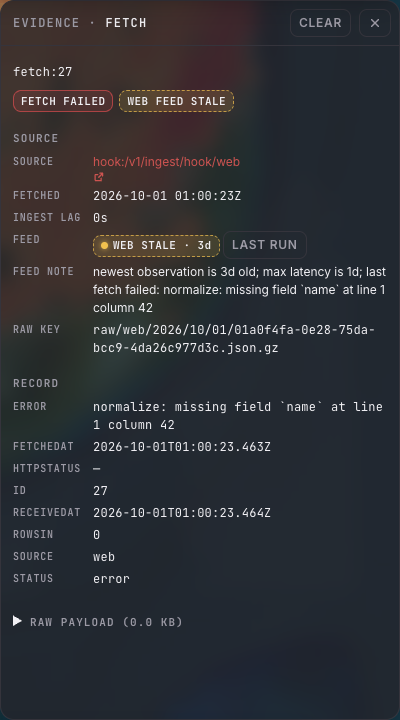
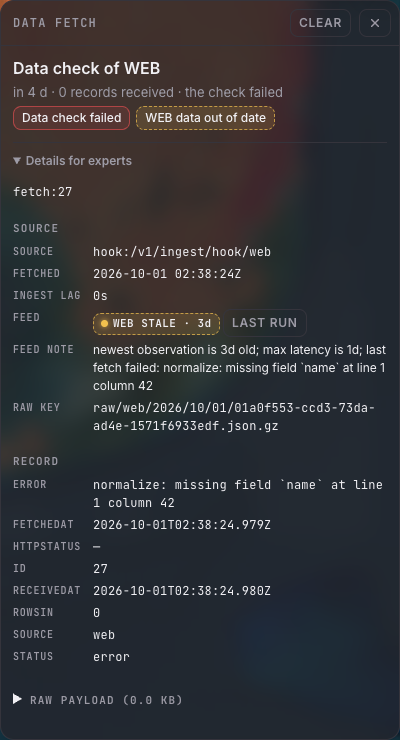
T27/T28 on the merged tree: re-run gates, e2e and perf
- e2e:quality follows T41 (About popover feed rows, plain-summary flags); stale-chip.png becomes stale-feed-row.png
- e2e:perf times the sightings layer (on by default since T41)
- agent: the 48 h globe window applies only to questions about what the globe shows; sightings results list
  lateRecords with cite markers
- docs/perf.md and the T27/T28 gates re-measured on the merged tree

diff --git a/apps/web/e2e/quality.ts b/apps/web/e2e/quality.ts
@@ -8,8 +8,9 @@
  *   E2E_SKIP_BUILD=1 …           reuse the last e2e build
  *
  * Cases and what must be on screen:
- * - stale:     a pushed sighting observed 3 days ago makes the `web` feed (max latency 1 d) stale: its chip is
- *              `data-state=stale`, and clicking it opens the fetch run with a FEED STALE badge and the note.
+ * - stale:     a pushed sighting observed 3 days ago makes the `web` feed (max latency 1 d) stale: its row in the
+ *              About popover's data sources (T41) is `data-state=stale` with the note, and its name opens the fetch
+ *              run, whose summary says "WEB data out of date".
  * - missing:   the fixture GOES scan's cloud and bad-DQF pixels are hatched on the LST layer (the layer's own
  *              gap count > 0); a cloud pixel's drawer says MISSING · CLOUD. A hook body that does not
  *              normalize is a failed fetch: its drawer says FETCH FAILED.
@@ -67,14 +68,18 @@ async function openPage(browser: Awaited<ReturnType<typeof chromium.launch>>, or
   return page;
 }
 
-/** Open an evidence id in the drawer through the share link, wait for its badges, and return the drawer's text. */
-async function drawer(page: Page, id: string, file: string, expect: RegExp[]): Promise<string> {
+/**
+ * Open an evidence id in the drawer through the share link, wait for it to load, screenshot it, and check its text.
+ * The plain summary and its quality flags are on top; `expert` also unfolds "Details for experts" for the shot.
+ */
+async function drawer(page: Page, id: string, file: string, expect: RegExp[], expert = false): Promise<string> {
   await page.evaluate((h) => {
     window.location.hash = h;
   }, `#e=${encodeURIComponent(id)}`);
   const el = page.locator("[data-testid=hud-drawer]");
   await page.waitForFunction((want) => document.querySelector("[data-testid=hud-drawer-id]")?.textContent === want, id, { timeout: 30_000 });
   await page.waitForFunction(() => !/Loading evidence/.test(document.querySelector("[data-testid=hud-drawer]")?.textContent ?? ""), undefined, { timeout: 30_000 });
+  if (expert) await page.evaluate(() => document.querySelector<HTMLDetailsElement>("[data-testid=drawer-expert]")?.setAttribute("open", ""));
   await page.waitForTimeout(400);
   await el.screenshot({ path: path.join(OUT, file) });
   shots += 1;
@@ -139,24 +144,31 @@ async function main() {
     const late = sightings.filter((s) => s.source === "nas" && lag(s) > DAY).sort((a, b) => Date.parse(b.observedAt) - Date.parse(a.observedAt))[0];
     if (!dup || !flip || !late) throw new Error(`fixtures: duplicate ${dup?.id}, flip ${flip?.id}, late ${late?.id}`);
 
-    // ---- stale: the web chip, then its fetch run in the drawer
+    // ---- stale: the web feed's row in the About popover (T41), then its fetch run in the drawer
     const page = await openPage(browser, stack.origin, `#v=1&c=25.70000,-80.60000,160000,0,-90&l=sightings,hotspots`);
-    await page.waitForSelector("[data-feed=web][data-state=stale]", { timeout: 60_000 });
-    const chip = page.locator("[data-feed=web]");
-    await chip.scrollIntoViewIfNeeded();
+    // FEEDS comes over the `feeds` subscription, published every 15 s.
+    await page.waitForFunction(() => ((window.__inversa!.state("FEEDS") as { source: string; state: string }[] | undefined) ?? []).some((f) => f.source === "web" && f.state === "stale"), undefined, { timeout: 60_000 });
+    await page.click("[data-testid=status-button]");
+    await page.click("[data-testid=data-sources] > summary");
+    const row = page.locator("[data-testid=status-popover] [data-feed=web][data-state=stale]");
+    await row.waitFor();
+    await row.scrollIntoViewIfNeeded();
     await page.waitForTimeout(300);
-    await page.locator("[data-testid=hud-topbar]").screenshot({ path: path.join(OUT, "stale-chip.png") });
+    await page.locator("[data-testid=status-popover]").screenshot({ path: path.join(OUT, "stale-feed-row.png") });
     shots += 1;
-    const chipTitle = (await chip.getAttribute("title")) ?? "";
-    if (!/stale/.test(chipTitle) || !/max latency is 1d/.test(chipTitle)) throw new Error(`web chip title: ${chipTitle}`);
-    await chip.click();
+    const rowText = `${(await row.getAttribute("title")) ?? ""} ${(await row.textContent()) ?? ""}`;
+    if (!/stale/.test(rowText) || !/max latency is 1d/.test(rowText)) throw new Error(`web feed row: ${rowText}`);
+    await row.locator("button").click();
     await page.waitForFunction(() => /^fetch:/.test(document.querySelector("[data-testid=hud-drawer-id]")?.textContent ?? ""), undefined, { timeout: 30_000 });
     await page.waitForFunction(() => Boolean(document.querySelector("[data-testid=hud-drawer-quality]")), undefined, { timeout: 30_000 });
+    await page.click("[data-testid=status-button]"); // close the popover so the drawer is in the clear
+    await page.evaluate(() => document.querySelector<HTMLDetailsElement>("[data-testid=drawer-expert]")?.setAttribute("open", ""));
+    await page.waitForTimeout(300);
     await page.locator("[data-testid=hud-drawer]").screenshot({ path: path.join(OUT, "stale-drawer.png") });
     shots += 1;
     const staleText = (await page.locator("[data-testid=hud-drawer]").textContent()) ?? "";
-    if (!/WEB FEED STALE/.test(staleText) || !/max latency is 1d/.test(staleText)) throw new Error(`stale drawer: ${staleText.slice(0, 800)}`);
-    results.push(`stale=web chip+drawer`);
+    if (!/WEB data out of date/.test(staleText) || !/max latency is 1d/.test(staleText)) throw new Error(`stale drawer: ${staleText.slice(0, 800)}`);
+    results.push(`stale=web feed row+drawer`);
 
     // ---- missing (1): cloud hatching on the LST layer at the frame after the scan, then a cloud pixel
     const frameAt = Math.floor(scanAt / 3_600_000) * 3_600_000 + 3_600_000;
@@ -181,21 +193,21 @@ async function main() {
     await globePage.screenshot({ path: path.join(OUT, "missing-cloud-globe.png") });
     shots += 1;
     log(`globe: LST frame ${gaps.layerFrame} (TIME ${gaps.time}), ${gaps.valid} valid cells`);
-    await drawer(globePage, readingId(cloud), "missing-cloud-drawer.png", [/MISSING · CLOUD/, /GOES/]);
-    await drawer(globePage, readingId(bad[0]!), "missing-bad-dqf-drawer.png", [/MISSING · BAD DQF/]);
+    await drawer(globePage, readingId(cloud), "missing-cloud-drawer.png", [/Cloud cover — no reading/, /GOES/]);
+    await drawer(globePage, readingId(bad[0]!), "missing-bad-dqf-drawer.png", [/Bad satellite data — no reading/]);
 
     // ---- missing (2): a push that does not normalize is a failed fetch
     const failed = await stack.hookRaw(JSON.stringify([{ Reading: { station: { ext_id: "broken" } } }]));
     if (failed.status !== 422) throw new Error(`broken hook body answered ${failed.status}: ${failed.text}`);
     const failedRun = (JSON.parse(failed.text) as { fetchRunId: number }).fetchRunId;
-    await drawer(globePage, `fetch:${failedRun}`, "missing-fetch-failed-drawer.png", [/FETCH FAILED/, /normalize/]);
+    await drawer(globePage, `fetch:${failedRun}`, "missing-fetch-failed-drawer.png", [/Data check failed/, /normalize/], true);
     results.push(`missing=cloud ${cloudy.length} bad_dqf ${bad.length} failed_fetch fetch:${failedRun}`);
 
     // ---- duplicate, conflict, late
-    await drawer(globePage, `sighting:${dup.id}`, "duplicate-drawer.png", [/DUPLICATE OF/, new RegExp(`sighting:${dup.canonicalId}`)]);
-    await drawer(globePage, `sighting:${dup.canonicalId}`, "duplicate-canonical-drawer.png", [/DUPLICATE/, new RegExp(`sighting:${dup.id}`)]);
+    await drawer(globePage, `sighting:${dup.id}`, "duplicate-drawer.png", [/Same animal as an earlier report/, /DUPLICATE OF/, new RegExp(`sighting:${dup.canonicalId}`)]);
+    await drawer(globePage, `sighting:${dup.canonicalId}`, "duplicate-canonical-drawer.png", [/Also reported once more elsewhere/, new RegExp(`sighting:${dup.id}`)]);
     results.push(`duplicate=sighting:${dup.id}->sighting:${dup.canonicalId}`);
-    await drawer(globePage, `sighting:${flip.id}`, "conflict-idflip-drawer.png", [/REVISION/, /CONFLICT/, /taxon:/]);
+    await drawer(globePage, `sighting:${flip.id}`, "conflict-idflip-drawer.png", [/Sources disagree/, /REVISION/, /taxon:/], true);
     // The SST pixel next to buoy 41122, 2.4 °C warmer.
     const pixelAt = Date.parse(buoy.observedAt) + 10 * 60_000;
     await stack.hook([
@@ -212,10 +224,10 @@ async function main() {
     ]);
     log(`seeded: SST pixel at ${iso(pixelAt)} next to ${buoy.station.name} ${buoy.value} °C`);
     const buoyId = readingId(buoy);
-    await drawer(globePage, buoyId, "conflict-sst-drawer.png", [/1 CONFLICT/, /t27-sst-pixel|:sst_c:/]);
+    await drawer(globePage, buoyId, "conflict-sst-drawer.png", [/Sources disagree/, /1 CONFLICT/, /:sst_c:/], true);
     results.push(`conflict=sighting:${flip.id} ${buoyId}`);
     const lateDays = Math.floor(lag(late) / DAY);
-    await drawer(globePage, `sighting:${late.id}`, "late-drawer.png", [/LATE · ARRIVED/, new RegExp(`Ingest lag${lateDays}d`)]);
+    await drawer(globePage, `sighting:${late.id}`, "late-drawer.png", [new RegExp(`Late report — reached us ${lateDays}d`), new RegExp(`Ingest lag${lateDays}d`)]);
     results.push(`late=sighting:${late.id} ${lateDays}d`);
 
     for (const line of results) console.log(`QUALITY ${line}`);

diff --git a/apps/web/server/agent/prompt.ts b/apps/web/server/agent/prompt.ts
@@ -27,7 +27,7 @@ export const AGENT_SYSTEM_PROMPT = `You are the Everglades Ops guide: a grounded
 - Conflicts: if a result lists "conflicts" or a sighting has idConflict, name the disagreement with both sides cited, then say which one you trust.
 - Prefer in-situ measured readings over satellite, and satellite over modelled. Prefer research-grade sightings over curated records, and both over needs_id or casual ones; say when a claim rests only on casual observations. Weigh grades in the answer rather than filtering them out of the query: fetch every grade unless the user asks for one, then give each record's grade.
 - Duplicates: a sighting with duplicateOf is the same animal reported again (iNaturalist, then GBIF, then NAS). Count distinct animals, not reports, and say how many were duplicates.
-- Late: a sighting with arrivedLate reached the feed long after the animal was seen (USGS NAS and GBIF publish curated records days to weeks later). It sits at its observation time, so counts for past days can still grow. Say which records arrived late (use the word "late") and by how much, cited.
+- Late: a sighting with arrivedLate reached the feed long after the animal was seen (USGS NAS and GBIF publish curated records days to weeks later). It sits at its observation time, so counts for past days can still grow. Whenever a sightings result has lateRecords, the answer says which records arrived late (use the word "late"), by how much, and pastes each one's cite marker, even when the question is about something else (counts, duplicates).
 - Missing: flags cloud, bad_dqf or missing mean no usable value. Report them as gaps, citing the flagged reading row itself as well as its feed.
 
 ## Hotspots
@@ -51,7 +51,7 @@ export function viewContext(view: AgentView | undefined, now: Date): string {
       `User's current view: bbox west ${west}, south ${south}, east ${east}, north ${north}; timeline at ${view.time}.`,
       `Visible layers: ${view.layers.length > 0 ? view.layers.join(", ") : "none"}.`,
       `Selected evidence: ${view.selection ?? "none"}.`,
-      `Sightings on the globe: those observed in the ${SIGHTING_WINDOW_HOURS} hours up to the timeline time. "How many sightings in view" means that window (from = timeline time minus ${SIGHTING_WINDOW_HOURS} h, to = timeline time) unless the user names another period.`,
+      `Sightings on the globe: those observed in the ${SIGHTING_WINDOW_HOURS} hours up to the timeline time. "How many sightings in view" means that window (from = timeline time minus ${SIGHTING_WINDOW_HOURS} h, to = timeline time) unless the user names another period. Use it only for questions about what the globe shows (in view, on the map); for any other sightings question (recent reports in a place, which to check, how many this week) leave from, to and hours out so the tool's own lookback applies.`,
     );
     if (view.species) {
       const shown = view.species.length > 0 ? view.species.join(", ") : "none";

diff --git a/apps/web/e2e/perf.ts b/apps/web/e2e/perf.ts
@@ -10,7 +10,7 @@
  *    TTFB, DOMContentLoaded and load from Navigation Timing; then the app's own marks from `window.__inversa`
  *    (client/debug.ts): `hydrated` (React has mounted the shell and its effects run: the HUD takes input),
  *    `globeFirstFrame` (Cesium's first rendered frame), `gridReady` (the db worker published the 30-day frame
- *    grid), and `dataDrawn` (the hotspot layer has painted a frame of that grid). Medians are printed.
+ *    grid), and `dataDrawn` (the sightings layer, on by default since T41, has drawn a frame of that grid). Medians are printed.
  * 2. First agent token, over AGENT_QUESTIONS live questions to the real agent (GPT-6 Luna on OpenRouter) through
  *    `POST /api/agent/stream` at the page origin, as the chat card sends them. Per question: the first NDJSON
  *    line (status), the first output the model streams (a reasoning or answer delta, or a tool call), and the
@@ -53,14 +53,14 @@ async function coldLoad(stack: Stack, browser: Browser): Promise<Cold> {
     await page.goto(`${stack.origin}/`, { waitUntil: "load", timeout: LOAD_TIMEOUT_MS });
     log("cold: page loaded, waiting for the first data frame");
     // Each resolves on the first animation frame at which its condition holds: the db worker's grid has frames,
-    // and the hotspot layer has painted one of them.
+    // and the sightings layer has drawn one of them.
     const at = (predicate: () => boolean | undefined) =>
       page
         .waitForFunction(`(${predicate.toString()})() ? performance.now() : false`, undefined, { timeout: LOAD_TIMEOUT_MS, polling: "raf" })
         .then(async (h) => (await h.jsonValue()) as number);
     const [gridReady, dataDrawn] = await Promise.all([
       at(() => (window.__inversa?.snapshot().grid?.frameCount ?? 0) > 0),
-      at(() => (window.__inversa?.globe()?.layers.find((l) => l.id === "hotspots")?.frame ?? -1) >= 0),
+      at(() => (window.__inversa?.globe()?.layers.find((l) => l.id === "sightings")?.frame ?? -1) >= 0),
     ]);
     await page.waitForFunction(() => {
       const m = window.__inversa?.marks();
@@ -95,7 +95,7 @@ async function ask(stack: Stack, question: string, i: number): Promise<AgentTimi
     body: JSON.stringify({
       sessionId: `perf-${Date.now()}-${i}`,
       question,
-      view: { bbox: HOMESTEAD, time: new Date().toISOString(), layers: ["sightings", "hotspots"], selection: null },
+      view: { bbox: HOMESTEAD, time: new Date().toISOString(), layers: ["sightings", "notes"], selection: null },
     }),
   });
   if (!res.ok || !res.body) throw new Error(`agent stream answered ${res.status}: ${await res.text()}`);

diff --git a/apps/web/server/agent/tools/capabilities.ts b/apps/web/server/agent/tools/capabilities.ts
@@ -342,6 +342,15 @@ const sightings = {
         duplicates: duplicates.length,
         conflicts: rows.filter((row) => row.conflict).length,
         late: rows.filter((row) => lateBy(row) !== null).length,
+        // Named up front, like feedSummary.mention: each late record with how late and its citation marker.
+        ...(rows.some((row) => lateBy(row) !== null)
+          ? {
+              lateRecords: rows
+                .filter((row) => lateBy(row) !== null)
+                .slice(0, MAX_MODEL_ROWS)
+                .map((row) => ({ source: row.source, arrived: `${lateBy(row)} after it was observed`, cite: `[e:sighting:${row.id}]` })),
+            }
+          : {}),
         byQuality,
         bySpecies,
         truncated: rows.length > shown.length,

diff --git a/packages/active-state/dist/threads/index.d.ts b/packages/active-state/dist/threads/index.d.ts
@@ -206,7 +206,7 @@ type GridShape = {
     /** score = u8 * hotspotScale. */
     hotspotScale: number;
 };
-/** i16 sentinel for a missing or flagged environment cell. */
+/** i16 sentinel for an environment cell with no reading (-32767, one above, marks a flagged pixel; see apps/web/shared/frames.ts). */
 declare const ENV_MISSING = -32768;
 /** "EVF2" as a little-endian u32. */
 declare const GRID_MAGIC = 843470405;

diff --git a/docs/perf.md b/docs/perf.md
@@ -1,18 +1,18 @@
 # Performance (PRD §13)
 
-Every PRD §13 target measured on the real stack, with how it was measured, at the T27/T28 commit. Machine: Apple Silicon Mac, headless Chromium (Playwright's `chromium-headless-shell`) with SwiftShader software WebGL, so every number that includes a globe frame is a software-rendering number; a laptop GPU renders the same frames faster. The stack is `apps/web/e2e/stack.ts`: Axum (release) over a temp data dir filled by `backfill --fixtures`, the production Next build (`next start`), the signal Worker under `wrangler dev --local`, and a Caddy-like front proxy, all on free ports.
+Every PRD §13 target measured on the real stack, with how it was measured, on the T27/T28 tree merged with main (T38, T40–T43); the poll run predates the merge, which touched no Rust. Machine: Apple Silicon Mac, headless Chromium (Playwright's `chromium-headless-shell`) with SwiftShader software WebGL, so every number that includes a globe frame is a software-rendering number; a laptop GPU renders the same frames faster. The stack is `apps/web/e2e/stack.ts`: Axum (release) over a temp data dir filled by `backfill --fixtures`, the production Next build (`next start`), the signal Worker under `wrangler dev --local`, and a Caddy-like front proxy, all on free ports.
 
 ## Targets
 
 | Target | Threshold (PRD §13) | Measured | Method | Result |
 |---|---|---|---|---|
-| Scrub frame change | < 16 ms, SAB, no network | median 7.72 ms, p95 13.98 ms, 0 requests, 96/96 frames verified | `bun run e2e:scrub`: drag the HUD timeline over 96 EVF2 frames in a SharedArrayBuffer grid; per step, input lands at a random point of the display frame and the span runs to the next `requestAnimationFrame` after the globe stand-in redrew that frame. Requests and sockets are counted while scrubbing. | PASS |
-| Cached query (client SQLite) | < 20 ms | 0.3 ms | `bun run e2e:dbworker`: a repeated `gqlRequest` answered from the db worker's SQLite cache, timed in the page (`DBWORKER cached=0.3 opfs=1 proxy=1`). | PASS |
+| Scrub frame change | < 16 ms, SAB, no network | median 9.05 ms, p95 14.13 ms, 0 requests, 96/96 frames verified | `bun run e2e:scrub`: drag the HUD timeline over 96 EVF2 frames in a SharedArrayBuffer grid; per step, input lands at a random point of the display frame and the span runs to the next `requestAnimationFrame` after the globe stand-in redrew that frame. Requests and sockets are counted while scrubbing. | PASS |
+| Cached query (client SQLite) | < 20 ms | 0.2 ms | `bun run e2e:dbworker`: a repeated `gqlRequest` answered from the db worker's SQLite cache, timed in the page (`DBWORKER cached=0.2 opfs=1 proxy=1`). | PASS |
 | Voice command to globe moving | < 800 ms after end of speech | not measured | Needs the live Grok voice session; `XAI_API_KEY` is not in Doppler `inversa/dev` (checked by presence only). | ABANDON: H6, no xAI key, so no voice round trip to time |
-| First agent token | < 2 s p50 | first token p50 1017 ms (1379, 943, 1017, 945, 1306) | `bun run e2e:perf`: 5 different questions to the live agent (GPT-6 Luna on OpenRouter) through `POST /api/agent/stream` at the page origin; time from request to the first output the model streams (a reasoning or answer delta, or its first tool call). The first NDJSON line (status) arrives at p50 7 ms. | PASS |
-| Optimistic local edit | same frame | 20/20 edits on screen before the next animation frame; DOM p50 0.6 ms | `bun run e2e:team`: A sends a chat line through the panel; a capture-phase submit listener arms a MutationObserver on A's own chat log and a `requestAnimationFrame` callback, which runs before the next paint; same frame when the line is already in the DOM then. | PASS |
-| Edit to RTC peer | < 150 ms p50 | p50 12 ms, p95 27 ms (20 edits) | `bun run e2e:team`: two browser contexts on one WebRTC data channel; A's submit time to B's MutationObserver seeing the line, same machine clock. | PASS |
-| Edit via WS fallback | < 1 s p50 | p50 82 ms, p95 87 ms (20 edits) | `bun run e2e:team` with peer traffic blocked on both sides (`__team.blockRtc`), so edits ride `applyOps` → Axum → the `ops` subscription. | PASS |
+| First agent token | < 2 s p50 | first token p50 1105 ms (1105, 1069, 1764, 939, 1201); first answer text p50 5.0 s | `bun run e2e:perf`: 5 different questions to the live agent (GPT-6 Luna on OpenRouter) through `POST /api/agent/stream` at the page origin; time from request to the first output the model streams (a reasoning or answer delta, or its first tool call). The first NDJSON line (status) arrives at p50 7 ms; the first answer text comes after the tool calls. | PASS |
+| Optimistic local edit | same frame | 20/20 edits on screen before the next animation frame; DOM p50 0.8 ms | `bun run e2e:team`: A sends a chat line through the Notes tab's crew board (T43); a capture-phase submit listener arms a MutationObserver on A's own chat log and a `requestAnimationFrame` callback, which runs before the next paint; same frame when the line is already in the DOM then. | PASS |
+| Edit to RTC peer | < 150 ms p50 | p50 12 ms, p95 30 ms (20 edits) | `bun run e2e:team`: two browser contexts on one WebRTC data channel; A's submit time to B's MutationObserver seeing the line, same machine clock. | PASS |
+| Edit via WS fallback | < 1 s p50 | p50 84 ms, p95 91 ms (20 edits) | `bun run e2e:team` with peer traffic blocked on both sides (`__team.blockRtc`), so edits ride `applyOps` → Axum → the `ops` subscription. | PASS |
 | GOES push to frame visible | < 60 s after SQS delivery | not measured | Needs the NODD SQS queue and IAM user; `GOES_SQS_URL` is not set (checked by presence only). GOES is replayed from fixtures only. | ABANDON: H4, no SQS queue to deliver from |
 | Poll freshness | ≤ cadence + 2 min | 8/8 polled sources fetched within cadence + 2 min for 70 min (largest gap over its cadence: iNat 125 s against 120 s, after one failed fetch); table below | `bun run perf:poll 70`: the release Axum with every poller on, against the live upstreams, over a fresh data dir; afterwards its own `fetch_runs` give the gaps between consecutive fetches and the age at the end, and the live `feeds` give each source's newest-observation lag and state. | PASS |
 | Globe idle CPU | ~0 | 0 Cesium renders over 5 s idle (300 animation frames observed, `requestRenderMode=true`, governor idle) | `bun run e2e:globe`: after the scene settles, count `scene.postRender` over 5 s with no input, and `requestAnimationFrame` callbacks alongside to prove the page was live. | PASS |
@@ -40,25 +40,25 @@ No PRD target; measured for the record with `bun run e2e:perf`: 5 loads of the o
 
 | Milestone | Median | Range | What it is |
 |---|---|---|---|
-| TTFB | 3 | 2–5 | Navigation Timing `responseStart` |
-| DOMContentLoaded | 34 | 32–45 | `domContentLoadedEventEnd` |
-| Load | 95 | 68–157 | `loadEventEnd` |
-| Interactive (hydrated) | 123 | 87–176 | `window.__inversa` installed by Providers' first effect: React has hydrated, the HUD takes input |
-| Cesium module fetched | 105 | 85–142 | Resource Timing `responseEnd` of `/cesium/index.js` (4.7 MB) |
-| First globe frame | 1736 | 1719–3674 | Cesium's first `postRender` |
-| Frame grid ready | 2490 | 2438–5617 | the db worker published the 30-day EVF2 grid |
-| First data frame drawn | 2794 | 2553–5709 | the hotspot layer painted a frame of that grid |
+| TTFB | 4 | 2–5 | Navigation Timing `responseStart` |
+| DOMContentLoaded | 37 | 33–44 | `domContentLoadedEventEnd` |
+| Load | 79 | 75–86 | `loadEventEnd` |
+| Interactive (hydrated) | 99 | 97–108 | `window.__inversa` installed by Providers' first effect: React has hydrated, the HUD takes input |
+| Cesium module fetched | 97 | 97–114 | Resource Timing `responseEnd` of `/cesium/index.js` (4.7 MB) |
+| First globe frame | 419 | 408–2834 | Cesium's first `postRender` |
+| Frame grid ready | 2384 | 2355–2843 | the db worker published the 30-day EVF2 grid |
+| First data frame drawn | 2459 | 2429–2867 | the sightings layer (on by default since T41) drew a frame of that grid |
 
-The first load of each run is the slow end of each range (3.7 s first globe frame, 5.7 s data): it also pays for the browser's GPU process and shader compilation under SwiftShader. The time from Cesium fetched to its first frame is module evaluation, widget setup and the first software-rendered frame.
+The first load is the slow end of each range (2.8 s first globe frame): it also pays for the browser's GPU process and shader compilation under SwiftShader. On the merged tree the first globe frame comes much earlier than before the merge (median 1.7 s then); which T40–T43 change moved it was not traced. The data still waits for the db worker's 30-day grid.
 
-Fix applied: the ops page now asks for Cesium with `preloadModule` (React DOM, `app/page.tsx`), so the 4.7 MB module downloads and compiles with the HTML instead of after hydration. Same harness, before and after (medians of 5): Cesium fetched 371 → 105 ms, first globe frame 1974 → 1736 ms, first data frame 2866 → 2794 ms.
+Fix applied: the ops page now asks for Cesium with `preloadModule` (React DOM, `app/page.tsx`), so the 4.7 MB module downloads and compiles with the HTML instead of after hydration. Same harness before the merge, without and with it (medians of 5): Cesium fetched 371 → 105 ms, first globe frame 1974 → 1736 ms, first data frame 2866 → 2794 ms.
 
 ## Fixes made during this pass
 
 - **Optimistic local edits.** Before: an edit appeared only after two db worker round trips (`applyLocalOps`, then `readBoard`): DOM p50 56 ms and 18/20 in the same frame. Now `client/hud/missions/team.ts` folds the node's pending ops into the last worker view on the main thread (`overlayOps` in `client/hud/missions/board.ts`, unit-tested to read the same as the worker's view after the ops): DOM p50 0.6 ms, 20/20 in the same frame.
 - **Backoff after one failed poll.** In the first 70-minute live run, USGS (15-minute cadence) hit one fetch error and the governor doubled from its cadence, so the next attempt came 30 min later (gap 1874 s against a 1020 s limit). The first backoff now doubles from `min(cadence, 60 s)`: a long-cadence source retries in 2 min, then doubles towards the cap (`api/src/ingest/governor.rs`, `RETRY_BASE`, with a test for 15-minute and daily sources).
 - **Cesium preload** (above).
-- **Harness.** `e2e/team.ts` ran `next dev` on fixed ports 3050 and 8799, the ports of `bun run dev`; it now runs on the shared stack on free ports (the production build exposes `window.__team` in e2e builds only). The stack's proxy had Bun's 10 s idle timeout, which could cut an agent stream while the model thought; it is 255 s now.
+- **Harness.** `e2e/team.ts` ran `next dev` on fixed ports 3050 and 8799, the ports of `bun run dev`; it now runs on the shared stack on free ports by default (the production build exposes `window.__team` in e2e builds only), and on T43's `e2e/dev-stack.ts` with `E2E_TEAM_STACK=dev` (merged tree: local 20/20 same frame, RTC p50 22 ms, WS p50 94 ms there). The stack's proxy had Bun's 10 s idle timeout, which could cut an agent stream while the model thought; it is 255 s now.
 
 ## Reproduce
 

diff --git a/gates/leaf-T27.md b/gates/leaf-T27.md
@@ -5,12 +5,12 @@ Scope: seed each R5 case (stale, missing, duplicate, conflicting, late). Each on
 - [x] G1: a fixture seeder produces all 5 cases, and a GraphQL check confirms each (test e2e_quality_cases)
   CHECK: cargo test --manifest-path api/Cargo.toml e2e_quality_cases 2>&1 | grep -E "running [1-9]|test result"
   EXPECT: /running [1-9][\s\S]*test result: ok/
-  EVIDENCE: running 1 test | test result: ok. 1 passed; 0 failed; 0 ignored; 0 measured; 208 filtered out; finished in 10.83s
+  EVIDENCE: running 1 test | test result: ok. 1 passed; 0 failed; 0 ignored; 0 measured; 221 filtered out; finished in 7.89s
 
 - [x] G2: the agent eval includes the 5 quality questions and states each case; the live eval prints the quality subset `EVAL quality passed 5/5`
   CHECK: bun run eval 2>&1 | grep "EVAL quality"
   EXPECT: EVAL quality passed 5/5
-  EVIDENCE: EVAL quality passed 5/5 (gate-check run). Consistency on the final agent code, full `bun run eval`, consecutive: run 1 `EVAL quality passed 5/5` `EVAL passed 15/15`; run 2 5/5, 15/15; run 3 5/5, 15/15; then the gate-check run, 5/5 (4 consecutive). Before the fixes, 3 quality-only runs gave 5/5, 4/5, 5/5 (quality-stale-feeds cited 1 of 3 non-nominal feeds). Fixes: `feedSummary.mention` gives each non-nominal feed a ready `cite` marker and age; `Sighting.ingestedAt` lets the sightings tool flag `arrivedLate`, and quality-duplicates-shark-valley now also requires the late NAS record to be named (`/\blate\b|arrived … after/`), so the five quality questions cover stale, missing, duplicate+late, and conflicting (SST and ID flip).
+  EVIDENCE: EVAL quality passed 5/5 (gate-check run on the tree merged with main). Merged tree, full `bun run eval`, consecutive after the last agent change: 5/5 and 15/15 three times, then this gate-check run 5/5 (4 in a row). The merge first dropped it to 5/5, 4/5, 4/5: T41's 48 h globe-window line made the model narrow "tegu reports near Homestead" to 48 h; the prompt now keeps that window for questions about what the globe shows. One run after that missed the late NAS record (4/5); the sightings tool now lists `lateRecords` with cite markers up front. Before the merge: 5/5 four runs in a row; before T27, 5/5, 4/5, 5/5. The five quality questions cover stale, missing, duplicate+late, and conflicting (SST and ID flip).
 
 - [x] G3: screenshots of the UI badge and drawer for each case (manual: paths under docs/evidence/quality/)
-  EVIDENCE: `bun run e2e:quality` on the real stack prints `QUALITY cases=5 shots=11`; each drawer is asserted to show its badge before the shot, and every image was looked at. stale: docs/evidence/quality/stale-chip.png (WEB chip, stale tone, 3d) and stale-drawer.png (WEB FEED STALE badge, feed note "newest observation is 3d old; max latency is 1d"); missing: missing-cloud-globe.png (cloud and bad-DQF pixels hatched on the LST layer), missing-cloud-drawer.png (MISSING · CLOUD), missing-bad-dqf-drawer.png (MISSING · BAD DQF), missing-fetch-failed-drawer.png (FETCH FAILED, the normalize error); duplicate: duplicate-drawer.png (DUPLICATE OF sighting:10) and duplicate-canonical-drawer.png (1 DUPLICATE); conflicting: conflict-idflip-drawer.png (1 REVISION, 1 CONFLICT, taxon Salvator merianae → Tupinambinae) and conflict-sst-drawer.png (1 CONFLICT, linked to the satellite pixel); late: late-drawer.png (LATE · ARRIVED 139d 7h AFTER, ingest lag 139d 7h). UI fixes found by looking: flagged pixels were filled from the neighbouring pixel in the frames and never hatched with one GOES scan (new `ENV_FLAGGED` sentinel, in-cell sampling); the drawer had no late / missing / failed-fetch / feed-state badges and no feed note; chip notes were hover-only (a chip now opens its last fetch run).
+  EVIDENCE: `bun run e2e:quality` on the merged tree (T41 layout) prints `QUALITY cases=5 shots=11`; each drawer is asserted to show its flags before the shot, and every image was looked at. The flags sit under T41's plain summary in plain words; the technical badges, links and the feed note stay under "Details for experts" (unfolded for the stale, failed-fetch and conflict shots). stale: docs/evidence/quality/stale-feed-row.png (About popover, Data sources: WEB stale · push 3d, note "newest observation is 3d old; max latency is 1d"; the name opens the fetch run) and stale-drawer.png ("WEB data out of date", feed note); missing: missing-cloud-globe.png (cloud and bad-DQF pixels hatched on the LST layer), missing-cloud-drawer.png ("Cloud cover — no reading"), missing-bad-dqf-drawer.png ("Bad satellite data — no reading"), missing-fetch-failed-drawer.png ("Data check failed", the normalize error); duplicate: duplicate-drawer.png ("Same animal as an earlier report", DUPLICATE OF sighting:10) and duplicate-canonical-drawer.png ("Also reported once more elsewhere"); conflicting: conflict-idflip-drawer.png ("Sources disagree", 1 REVISION, taxon Salvator merianae → Tupinambinae) and conflict-sst-drawer.png ("Sources disagree", 1 CONFLICT linked to the satellite pixel); late: late-drawer.png ("Late report — reached us 139d 7h after it was seen", ingest lag 139d 7h). UI fixes found by looking: flagged pixels were filled from the neighbouring pixel in the frames and never hatched with one GOES scan (new `ENV_FLAGGED` sentinel, in-cell sampling); the drawer had no late / missing / failed-fetch / feed-state flags and no feed note; feed notes needed a hover (a feed row now opens its last fetch run).

diff --git a/PLAN.md b/PLAN.md
@@ -316,3 +316,4 @@ The same strings appear in agent citations `[e:<id>]`, in `evidence(id)`, in UI 
 - T43 field notes: the `note` entity carries field notes (text, lat, lon, species?, sightingId?, createdBy, callsign, createdAt); NOTES state key (pins, pick-on-map); notes globe layer (`note:<id>` pins, C14 kind `note`); the board tab reads "Notes" with crew missions behind a disclosure; drawer note card plus "Add note about this sighting"; read-only agent `notes` tool (C17 table); 3 CRDT note vectors (17/17 in both runners); `e2e:notes` on the dev stack (e2e/dev-stack.ts, shared with e2e:team). Authorship, length and rate caps are client-side (docs/security.md).
 - T41 (sightings-first, popovers, 48h, plain evidence, welcome) + T43 (field notes) merged; merged tree: web 673/0, FIRSTLOAD/CHROME/ATTRIBUTION/SPECIES/LINKS/LAYOUT/AXE/KEYBOARD pass. e2e:notes re-run blocked by user's running next dev (passed on branch: rtc_ms=624).
 - T27/T28 (branch): leaf-T27 3/3, leaf-T28 2/2; the voice and GOES-push rows of docs/perf.md are ABANDON (H6, H4). `e2e_quality_cases` seeds the 5 cases through fixtures, the signed hook and the real NDBC poller against a dead upstream. Live eval 5/5 quality and 15/15 four runs in a row (`feedSummary.mention` with cite markers; late records named). UI: `ENV_FLAGGED` frame sentinel (flagged pixels hatched, never filled from a neighbour), drawer quality badges and feed note, chips open their last fetch run; `bun run e2e:quality` writes 11 shots to docs/evidence/quality/. Perf: scrub 7.7 ms, cached 0.3 ms, first token p50 1.0 s, local edit 0.6 ms (same frame 20/20, `overlayOps`), RTC 12 ms, WS 82 ms, poll 8/8 (first retry within 2 min), idle 0, cold first globe frame 1.7 s (Cesium `preloadModule`). `e2e:team` runs on the shared stack. CONTRACT-REQUEST: C2 `Sighting.ingestedAt: Time!`; C4 `ENV_FLAGGED = -32767`. Web 590 tests, api 207.
+- T27/T28 merged with main (T38, T40–T43); both contract requests accepted. Quality flags in plain words under T41's evidence summary (technical badges under "Details for experts"); About popover feed rows open their last fetch run; `overlayOps` covers field notes (write after delete stays deleted) and feeds NOTES pins; `e2e:team` on the shared stack, `E2E_TEAM_STACK=dev` for dev-stack.ts. Prompt: the 48 h globe window only for questions about what the globe shows (it had narrowed "tegu reports near Homestead"); sightings results list `lateRecords`. Merged tree: leaf-T27 3/3, leaf-T28 2/2, live eval 5/5 + 15/15 four in a row, QUALITY 5 cases, FIRSTLOAD/CHROME/ATTRIBUTION, SPECIES, EXTERNAL-LINKS 30/30, LAYOUT, AXE 0/0 + KEYBOARD-OK, NOTES, TEAM (both stacks), SCRUB 9.05 ms, IDLE 0, DBWORKER 0.2 ms, first token p50 1.1 s. Web 678 tests, api 219, clippy clean.

diff --git a/gates/leaf-T28.md b/gates/leaf-T28.md
@@ -5,7 +5,7 @@ Scope: measure every PRD §13 target and record the numbers in `docs/perf.md`. F
 - [x] G1: docs/perf.md holds a measured value for every target: scrub, cached query, voice command, first token, local edit, RTC edit, WS edit, GOES push, poll freshness, idle CPU
   CHECK: for k in scrub cached voice "first token" "local edit" "rtc" "ws" goes "poll" idle; do grep -qi "$k" docs/perf.md || m=$((m+1)); done; echo "missing=${m:-0}"
   EXPECT: missing=0
-  EVIDENCE: missing=0. Two rows are ABANDON rows in docs/perf.md with the reason: voice command (no XAI_API_KEY in Doppler inversa/dev, H6) and GOES push (no GOES_SQS_URL, H4); the other eight are measured and PASS.
+  EVIDENCE: missing=0. Two rows of docs/perf.md are ABANDON rows with the reason: voice command (no XAI_API_KEY in Doppler inversa/dev, H6) and GOES push (no GOES_SQS_URL, H4); the other eight are measured on the merged tree (poll freshness before the merge, no Rust changed since) and PASS.
 
 - [x] G2: the offline-measurable targets meet their thresholds (scrub < 16 ms, cached < 20 ms, rtc < 150 ms); docs/perf.md marks each PASS
   CHECK: grep -ciE "(scrub|cached|rtc).*PASS" docs/perf.md
